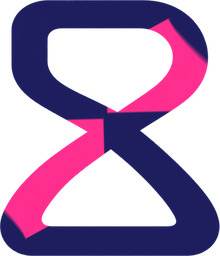
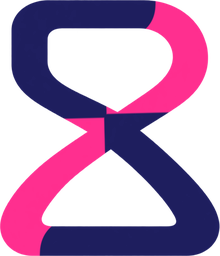
fix(web): 로고 분홍을 끝까지 잇고 트리맵 등장을 각 칸에서 시작한다
로고가 작은 크기에서 분홍이 토막나 보였다. 위아래 막대가 올라가는 획의 끝을
덮고 있어서다. 막대를 획 끝에서 비켜 두어 분홍이 모서리까지 한 줄로 이어진다.

트리맵은 폭을 재기 전에 등장 효과가 걸려, 보이지 않는 사이에 끝나고 자리를 잡을 때
다 같이 튀어나온 것처럼 보였다. 잰 뒤에 효과가 걸리도록 바꿔 각 칸이 제 중심에서
커진다. 큰 칸부터 45ms씩 늦춰 한꺼번에 뜨지 않게 했고, 이미 떠 있던 칸은 효과가
끝난 상태라 자리만 옮긴다. 나중에 들어온 칸은 남은 칸들이 비켜 준 뒤에 나타난다.

Changed region(s): [[0.6545, 0.0, 0.9545, 0.25], [0.0, 0.8125, 0.2455, 1.0], [0.3, 0.4062, 0.7636, 0.5938]]

diff --git a/apps/web/src/shared/ThemeTreemap.tsx b/apps/web/src/shared/ThemeTreemap.tsx
@@ -85,10 +85,13 @@ export function ThemeTreemap({ items, motion }: { items: TreemapItem[]; motion: 
          각 타일이 제 중심에서 커지는 `treemap-cell-in`이 맡는다. */
       data-ready={size.width > 0 ? 'true' : 'false'}
     >
-      {rects.map((rect) => {
+      {rects.map((rect, index) => {
         // 면적은 1초 주기 레이아웃, 숫자와 색상은 500ms 주기 최신값을 쓴다.
         const item = values.get(rect.item.themeId) ?? rect.item;
         const value = formatReturn(item.weightedReturn);
+        // 큰 칸부터 차례로 들어오게 조금씩 늦춘다. 한꺼번에 나타나면 화면이 통째로
+        // 튀어나온 것처럼 보이고, 나중에 들어온 칸은 남은 칸들이 자리를 비켜 준 뒤에 뜬다.
+        const delay = Math.min(index, 7) * 45;
         return (
           <li
             key={item.themeId}
@@ -98,6 +101,7 @@ export function ThemeTreemap({ items, motion }: { items: TreemapItem[]; motion: 
               top: `${rect.y + TREEMAP_GAP}px`,
               width: `${rect.width}px`,
               height: `${rect.height}px`,
+              animationDelay: `${delay}ms`,
             }}
           >
             <Link

diff --git a/apps/web/src/styles/global.css b/apps/web/src/styles/global.css
@@ -3344,9 +3344,16 @@ p.page-intro__origin {
   to { opacity: 1; transform: scale(1); }
 }
 
+/* 폭을 재기 전에는 칸이 0 크기라, 그때 효과를 걸면 보이지 않는 사이에 끝나 버리고
+   자리를 잡을 때 다 같이 튀어나온 것처럼 보인다. 잰 뒤에 이 규칙이 걸리면서
+   그제서야 각 칸이 제 중심에서 커진다. 이미 떠 있던 칸은 효과가 끝난 상태라
+   자리만 옮기고, 나중에 들어온 칸은 붙는 순간 이 규칙에 걸려 혼자 나타난다. */
 .treemap__cell {
   transform-origin: center;
-  animation: treemap-cell-in 420ms var(--djv-easing-standard);
+}
+
+.treemap[data-ready='true'] .treemap__cell {
+  animation: treemap-cell-in 420ms var(--djv-easing-standard) backwards;
 }
 
 .treemap[data-motion='off'] .treemap__cell {
